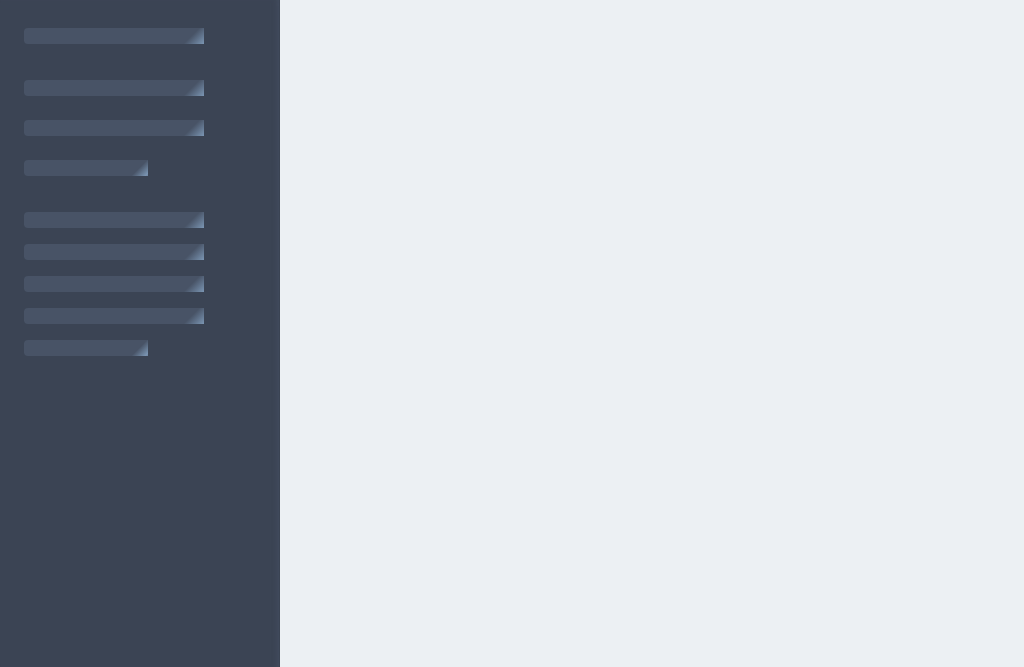
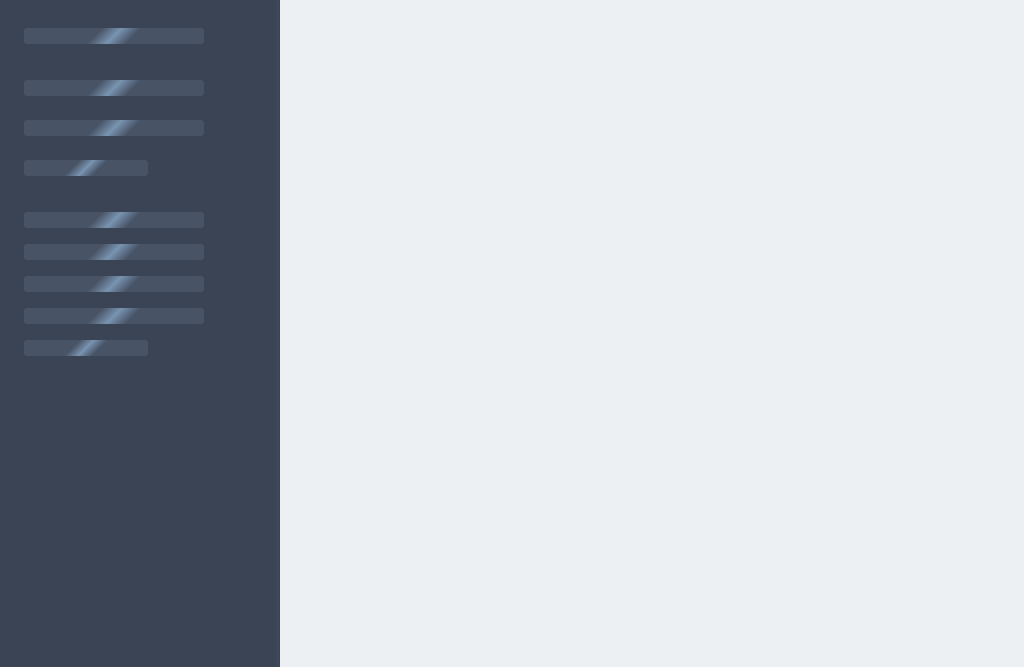
update gemini specs

diff --git a/packages/react/src/playground/index.js b/packages/react/src/playground/index.js
@@ -7,7 +7,8 @@ import {
   Dropdown,
   GlobalNav,
   breakpoints,
-  TextLink
+  TextLink,
+  Checkbox
 } from "../hig-react";
 
 import "./index.css";
@@ -129,7 +130,7 @@ class Playground extends React.Component {
       searchValue: "",
       seenNotificationIds: [],
       sideNavTheme: "dark-blue",
-      sideNavType: "full",
+      sideNavLoading: false,
       notifications: sampleNotifications,
       readIds: this._initialReadNotifications(sampleNotifications),
       featuredNotification: this.featuredNotification(),
@@ -169,8 +170,8 @@ class Playground extends React.Component {
     this.setState({ sideNavTheme: theme });
   };
 
-  setSideNavType = type => {
-    this.setState({ sideNavType: type });
+  setSideNavLoadingState = event => {
+    this.setState({ sideNavLoading: event.target.checked });
   };
 
   toggleSideNav = () => {
@@ -365,7 +366,7 @@ class Playground extends React.Component {
       headerLink: "http://apple.com",
       copyright: "2018",
       higTheme: this.state.sideNavTheme,
-      loading: this.state.sideNavType === "loading",
+      loading: this.state.sideNavLoading,
       links,
       onLogoClick: event => {
         event.preventDefault();
@@ -418,15 +419,10 @@ class Playground extends React.Component {
             value={this.state.sideNavTheme}
             onChange={this.setSideNavTheme}
           />
-
-          <Dropdown
-            label="SideNav type"
-            options={[
-              { label: "Full", id: "full", value: "full" },
-              { label: "Skeleton", id: "loading", value: "loading" }
-            ]}
-            value={this.state.sideNavType}
-            onChange={this.setSideNavType}
+          <Checkbox
+            label="loading"
+            checked={this.state.sideNavLoading}
+            onChange={this.setSideNavLoadingState}
           />
         </PlaygroundSection>
         <ExpandingFilterSectionSection />

diff --git a/packages/vanilla/src/components/global-nav/side-nav/side-nav-skeleton/tests/gemini-side-nav-skeleton.html b/packages/vanilla/src/components/global-nav/side-nav/side-nav-skeleton/tests/gemini-side-nav-skeleton.html
@@ -9,11 +9,8 @@
       padding: 0;
     }
 
-    * {
-      animation-duration: 0s !important;
-      animation-delay: 0s !important;
-      transition-delay: 0s !important;
-      transition-duration: 0s !important;
+    .hig__skeleton-item::after {
+      animation: none !important;
     }
   </style>
 </head>
